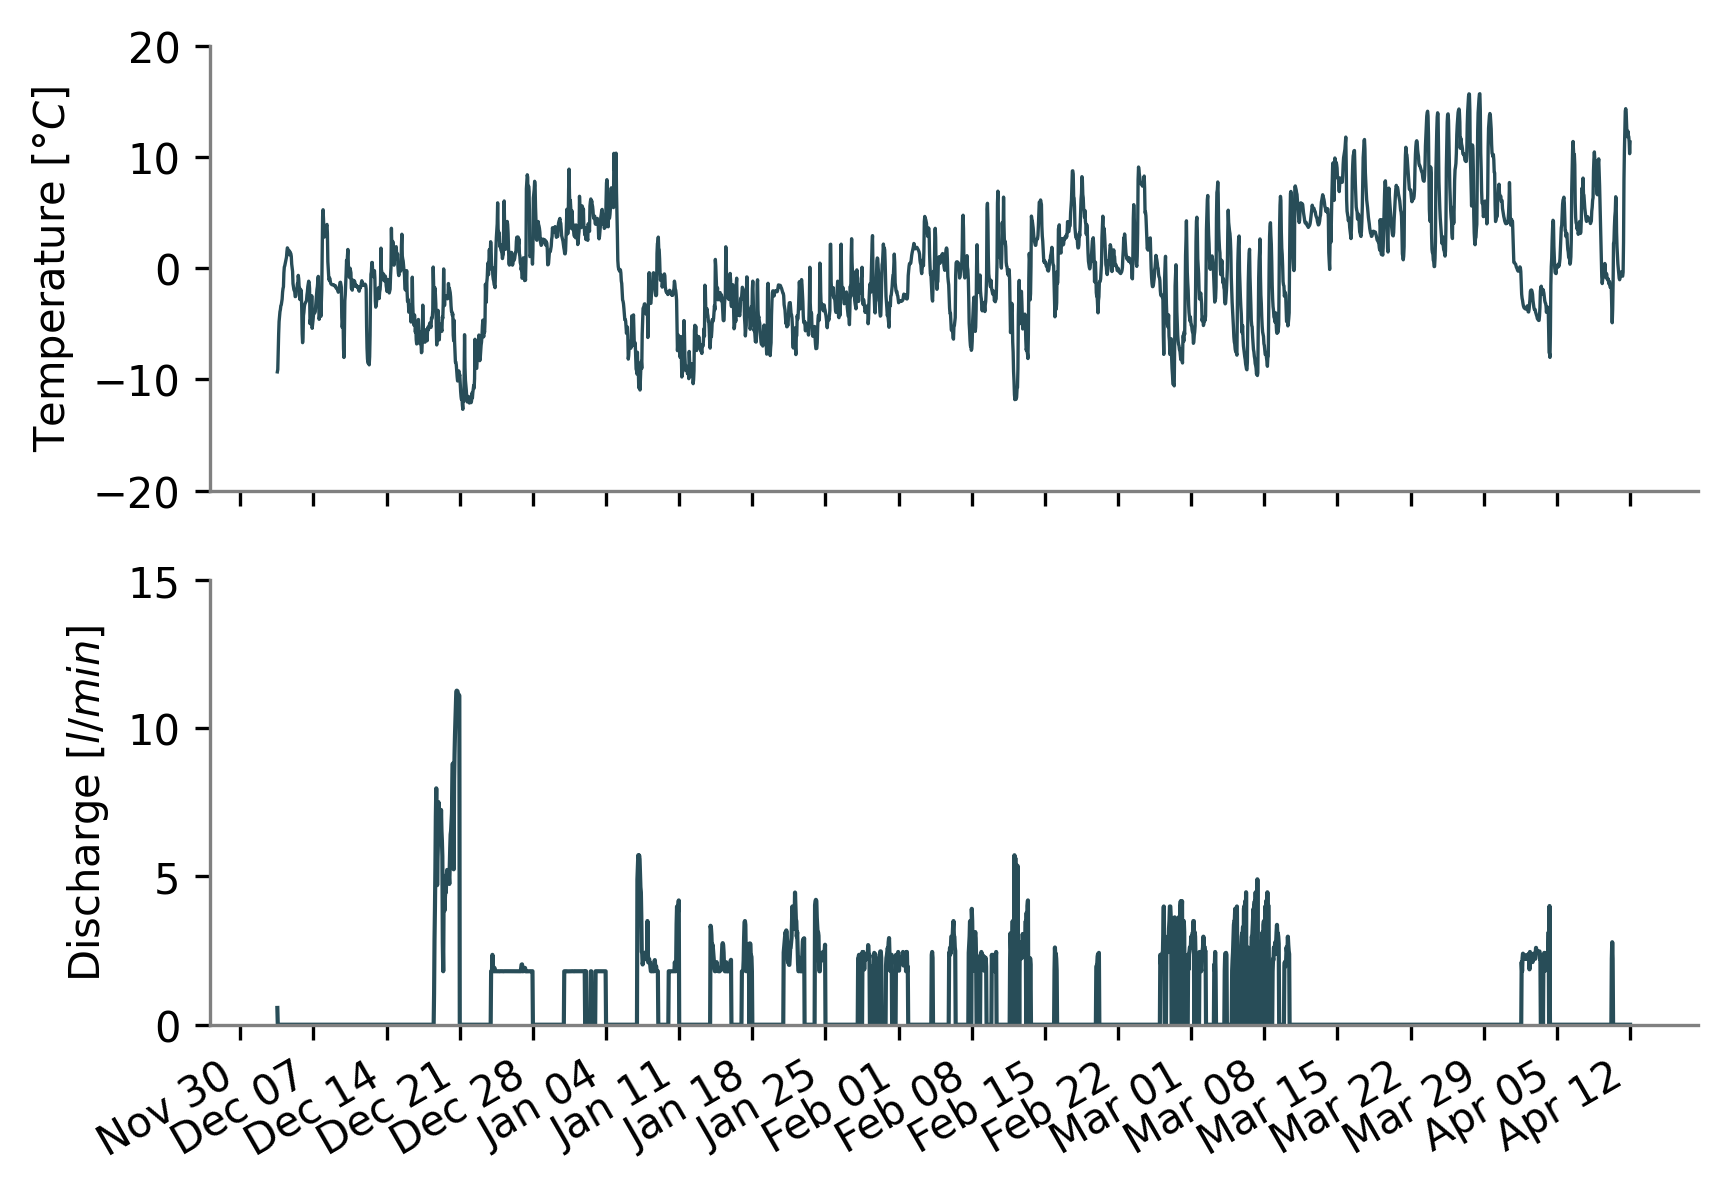
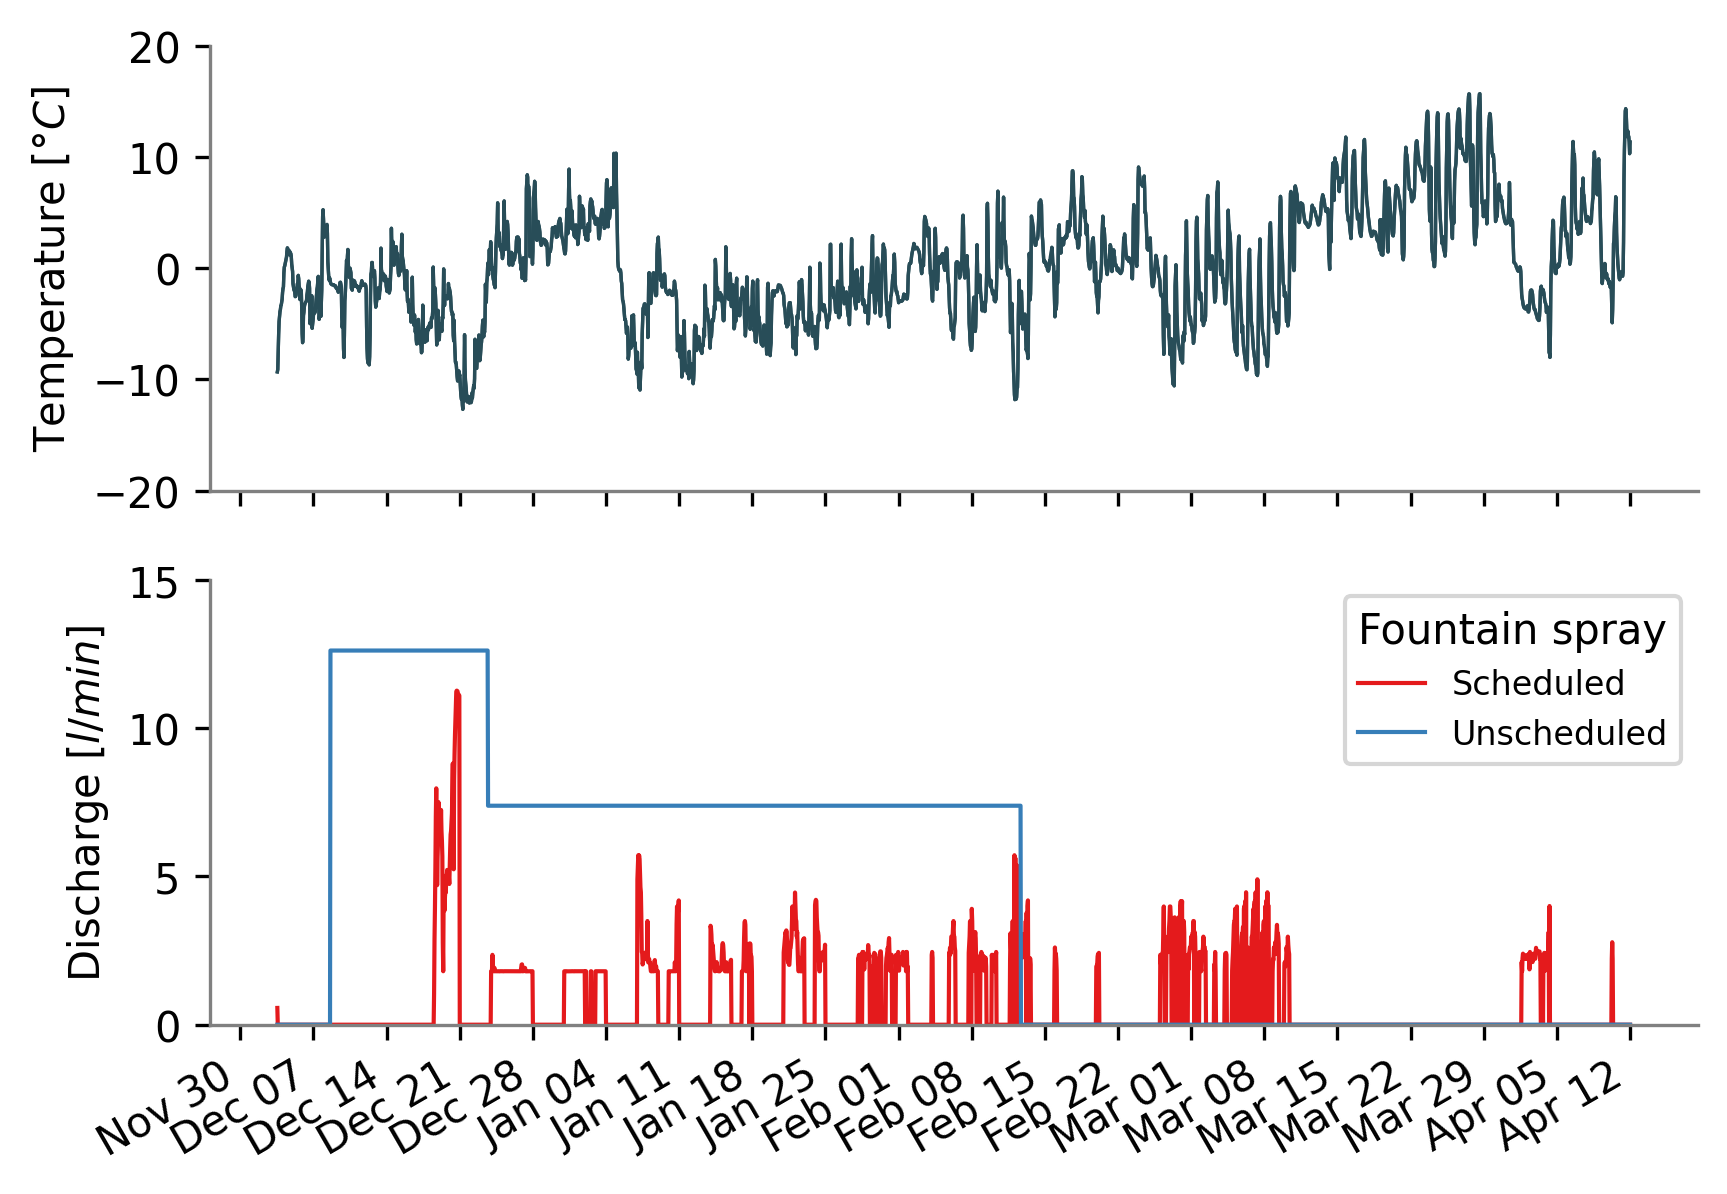
Adapt to Roger suggestion

diff --git a/tech.tex b/tech.tex
@@ -309,8 +309,42 @@ about how the automation system functions can be found in Appendix \ref{sec:auto
 
 
 \subsection{Model updates}
+
 The model was made more sensitive to fountain discharge rate feedback for comparing the volume evolution of the
-automated and traditional AIRs. These updates are explained in detail in Appendix \ref{sec:Mod_updates}.
+automated and traditional AIRs. 
+
+In the previous version of the model \citep{balasubramanianInfluenceMeteorologicalConditions2022}, the fountain
+water temperature ($T_F$) was estimated as a constant parameter. However, in reality, this is a poor
+approximation. This is because the fountain water temperature and source water temperature differ due to the
+temperature change caused by transit from the source to the  AIR surface. Therefore, we instead use measured
+hourly ground temperature measurements to approximate water temperature for both the AIRs.
+
+In the previous version of the model \citep{balasubramanianInfluenceMeteorologicalConditions2022}, fountain
+discharge events were reset from surface albedo to ice albedo. However, this assumption limits the accuracy of
+the model, especially, for the automated AIR where several fountain discharge events of short durations occur.
+Therefore, we assumed that discharge events instead reduce the albedo decay rate ($\tau$) by a 
+factor of $\frac{\alpha_{ice}}{\alpha_{snow}}$.
+
+Additionally, both the AIRs experienced many precipitation events. Therefore, it was no longer accurate to
+assume AIR density ($\rho_{cone}$) to be equal to ice density. We instead parameterised AIR density $\rho_{cone}$ as follows:
+
+\begin{equation}
+  \rho_{cone} = \frac{M_{F} + M_{dep} + M_{ppt}}{(M_{F} + M_{dep})/\rho_{ice} + M_{ppt}/\rho_{snow}}
+\end{equation}
+
+where $M_F$ is the cumulative mass of the fountain discharge; $M_{ppt}$ is the cumulative precipitation;
+$M_{dep}$ is the cumulative accumulation through water vapour deposition; $\rho_{ice}$ is the ice density (917
+$kg\,m^{-3}$) and $\rho_{snow}$ is the density of wet snow (300 $kg\,m^{-3}$) taken from
+\cite{cuffeyPhysicsGlaciers2010} .
+
+Rain events were not considered in the previous version of the model but they occur in our experiment. The
+influence of rain events on the albedo and the energy balance was assumed to be similar to that of discharge
+events. However, the water temperature of a rain event was assumed to be equal to the air temperature.
+Accordingly, the heat flux generated due to a rain event was equal to:
+
+\begin{equation}
+  q_{R} = \frac{\Delta M_{ppt} \cdot c_{water} \cdot T_{a}}{\Delta t \cdot A_{cone}}
+\end{equation}
 
 \subsection{Calibration and Validation}
 
@@ -327,26 +361,27 @@ discharge rate estimates with the validated freezing rate of calibrated model.
 
 \subsection{Scheduled discharge rate simulations}
 
-We found that the water-sensitive and weather-sensitive fountains estimated the freezing rate of the unscheduled
-fountain with a correlation around 0.6 and a RMSE less than 0.6 $l/min$ and 1.6  $l/min$ respectively. The
-weather-sensitive fountain overestimated the freezing rate 44 \% of the construction duration whereas the
-water-sensitive fountain underestimated the freezing rate 67 \% of the construction duration. Therefore, the
-IVOM and WEOM model forcings were successful in prioritizing the maximum ice volume and water use efficiency
-metrics respectively.
+The water-sensitive and weather-sensitive fountains estimated the freezing rate of the unscheduled fountain with
+a correlation around 0.5 and a RMSE less than 0.7 $l/min$ and 1.7  $l/min$ respectively. The weather-sensitive
+fountain overestimated the freezing rate 74 \% of the construction duration whereas the water-sensitive fountain
+overestimated the freezing rate 60 \% of the construction duration as illustrated by Fig. \ref{fig:simvsreal}.
+Therefore, the IVOM model forcing was successful in prioritizing the maximum ice volume but the WEOM model
+forcing could not optimize for water use efficiency. However, this large overestimation could be due to the
+depression of the unscheduled fountain's freezing rate caused by its excess discharge rate. 
 
 \begin{figure*}[t]
-\includegraphics[width=8cm]{Figures/simvsreal2.png}
+\includegraphics[width=8cm]{Figures/simvsreal.jpg}
 
-\caption{ Comparison of the discharge rate measured by the automation system and the discharge rate simulated by the weather-sensitive
-model. }
+\caption{ Comparison of the freezing rate estimated for the unscheduled fountain and the discharge rate of the
+scheduled fountains. }
 
 \label{fig:simvsreal}
 \end{figure*}
 
 \subsection{Model validation}
 
-The volume estimation for the automated and traditional AIR had an RMSE of 13 $m^3$ and 5 $m^3$ with the drone
-volume observations, respectively. This RMSE error is within 20 \% and 11 \% of the maximum volume of the
+The volume estimation for the automated and traditional AIR had an RMSE of 13 $m^3$ and 7 $m^3$ with the drone
+volume observations, respectively. This RMSE error is within 20 \% and 19 \% of the maximum volume of the
 automated and the traditional AIR respectively. The estimated and measured AIR volumes are shown in Fig.
 \ref{fig:validation}.  
 
@@ -370,15 +405,15 @@ scheduled and unscheduled fountain construction strategies.} \label{fig:validati
 		\textbf{}              & \textbf{Name}                   & \textbf{Symbol} & \textbf{Traditional} & \textbf{Automated} &
 		\textbf{Units}                                                                                                       \\ \midrule
 		\multicolumn{1}{|l|}{\multirow{3}{*}{\rotatebox[origin=c]{90}{Input}}}
-		                       & Fountain discharge              & $M_F$           & \num{8.2e5}   & \num{1.4e5}     & $kg$  \\
-		\multicolumn{1}{|l|}{} & Snowfall                        & $M_{ppt}$       & \num{1.1e4}   & \num{1.5e4}   & $kg$  \\
-		\multicolumn{1}{|l|}{} & Deposition                      & $M_{dep}$       & \num{9.4e2}   & \num{1.2e3}     & $kg$  \\ \midrule
+		                       & Fountain discharge              & $M_F$           & \num{1.2e6}   & \num{1.4e5}     & $kg$  \\
+		\multicolumn{1}{|l|}{} & Snowfall                        & $M_{ppt}$       & \num{1.0e4}   & \num{1.5e4}   & $kg$  \\
+		\multicolumn{1}{|l|}{} & Deposition                      & $M_{dep}$       & \num{8.0e2}   & \num{1.2e3}     & $kg$  \\ \midrule
 		\multicolumn{1}{|l|}{\multirow{4}{*}{\rotatebox[origin=c]{90}{Output}}}
-		                       & Meltwater                       & $M_{water}$     & \num{2.9e4} & \num{4.2e4}   & $kg$  \\
-		\multicolumn{1}{|l|}{} & Ice                             & $M_{ice}$       & \num{1.3e4} & \num{1.3e4}    & $kg$  \\
-		\multicolumn{1}{|l|}{} & Sublimation                     & $M_{sub}$       & \num{2.6e3} & \num{3.0e3}     & $kg$  \\
-		\multicolumn{1}{|l|}{} & Fountain wastewater             & $M_{waste}$     & \num{8.0e5} & \num{1.1e5}     & $kg$  \\ \midrule
-    croncli
+		                       & Meltwater                       & $M_{water}$     & \num{3.0e4} & \num{4.2e4}   & $kg$  \\
+		\multicolumn{1}{|l|}{} & Ice                             & $M_{ice}$       & \num{7.6e3} & \num{1.3e4}    & $kg$  \\
+		\multicolumn{1}{|l|}{} & Sublimation                     & $M_{sub}$       & \num{2.3e3} & \num{3.0e3}     & $kg$  \\
+		\multicolumn{1}{|l|}{} & Fountain wastewater             & $M_{waste}$     & \num{1.19e6} & \num{1.1e5}     & $kg$  \\ \midrule
+		\multicolumn{1}{|l|}{\multirow{7}{*}{\rotatebox[origin=c]{90}{Energy Flux}}}
                            & Shortwave radiation             &  $q_{SW}$       & $29$  & $39$ & \% \\
 		\multicolumn{1}{|l|}{} & Longwave radiation              &  $q_{LW}$       & $35$  & $34$ & \% \\
 		\multicolumn{1}{|l|}{} & Sensible heat                   &  $q_{S}$        & $8$   & $8$ & \% \\
@@ -386,16 +421,10 @@ scheduled and unscheduled fountain construction strategies.} \label{fig:validati
 		\multicolumn{1}{|l|}{} & Fountain discharge heat         &  $q_{F}$        & $10$  & $1$     & \% \\
 		\multicolumn{1}{|l|}{} & Rain heat                       &  $q_{R}$        & $0$  & $0$     & \% \\
 		\multicolumn{1}{|l|}{} & Ground heat                     &  $q_{G}$        & $1$   & $2$     & \% \\\midrule
-		\multicolumn{1}{|l|}{\multirow{4}{*}{\rotatebox[origin=c]{90}{Fountain}}}
-
-                           & Spray Radius                    &  $r$            & 4.8           & 4.1           & $m$ \\
-		\multicolumn{1}{|l|}{} & Aperture Diameter               &  $dia$          & 5             & 7             & $mm$ \\
-		\multicolumn{1}{|l|}{} & Pressure Loss                   &  $P$            & 4.3           & 3.7           & $m$ \\
-		\multicolumn{1}{|l|}{} & Minimum discharge rate          &  $Q_{min}$      & 2           & N.A.          & $l/min$ \\\midrule
 		\multicolumn{1}{|l|}{\multirow{2}{*}{\rotatebox[origin=c]{90}{AIR}}}
 
-		                       & Maximum AIR Volume              &                 & 47            & 63            & $m^{3}$ \\
-		\multicolumn{1}{|l|}{} & Water Use Efficiency            &                 & 4             & 31            & \% \\\midrule
+		                       & Maximum AIR Volume              &                 & 36            & 63            & $m^{3}$ \\
+		\multicolumn{1}{|l|}{} & Water Use Efficiency            &                 & 3             & 31            & \% \\\midrule
 	\end{tabular}
 \end{table}
 
@@ -533,41 +562,6 @@ events, namely:
 \item Pipeline leakage is assumed if measured discharge rate is greater than the user-defined maximum fountain discharge rate.
 
 \end{itemize}
-
-\section{Model updates} \label{sec:Mod_updates}
-
-In the previous version of the model \citep{balasubramanianInfluenceMeteorologicalConditions2022}, the fountain
-water temperature ($T_F$) was estimated as a constant parameter. However, in reality, this is a poor
-approximation. This is because the fountain water temperature and source water temperature differ due to the
-temperature change caused by transit from the source to the  AIR surface. Therefore, we instead use measured
-hourly ground temperature measurements to approximate water temperature for both the AIRs.
-
-In the previous version of the model \citep{balasubramanianInfluenceMeteorologicalConditions2022}, fountain
-discharge events were reset from surface albedo to ice albedo. However, this assumption limits the accuracy of
-the model, especially, for the automated AIR where several fountain discharge events of short durations occur.
-Therefore, we assumed that discharge events instead reduce the albedo decay rate ($\tau$) by a 
-factor of $\frac{\alpha_{ice}}{\alpha_{snow}}$.
-
-Additionally, both the AIRs experienced many precipitation events. Therefore, it was no longer accurate to
-assume AIR density ($\rho_{cone}$) to be equal to ice density. We instead parameterised AIR density $\rho_{cone}$ as follows:
-
-\begin{equation}
-  \rho_{cone} = \frac{M_{F} + M_{dep} + M_{ppt}}{(M_{F} + M_{dep})/\rho_{ice} + M_{ppt}/\rho_{snow}}
-\end{equation}
-
-where $M_F$ is the cumulative mass of the fountain discharge; $M_{ppt}$ is the cumulative precipitation;
-$M_{dep}$ is the cumulative accumulation through water vapour deposition; $\rho_{ice}$ is the ice density (917
-$kg\,m^{-3}$) and $\rho_{snow}$ is the density of wet snow (300 $kg\,m^{-3}$) taken from
-\cite{cuffeyPhysicsGlaciers2010} .
-
-Rain events were not considered in the previous version of the model but they occur in our experiment. The
-influence of rain events on the albedo and the energy balance was assumed to be similar to that of discharge
-events. However, the water temperature of a rain event was assumed to be equal to the air temperature.
-Accordingly, the heat flux generated due to a rain event was equal to:
-
-\begin{equation}
-  q_{R} = \frac{\Delta M_{ppt} \cdot c_{water} \cdot T_{a}}{\Delta t \cdot A_{cone}}
-\end{equation}
 
 \section{Model forcing based on water-use efficiency and maximum volume objectives} \label{sec:SEB}
 
